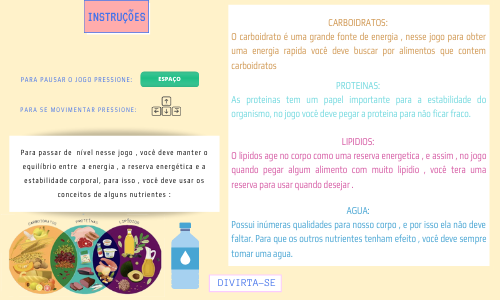
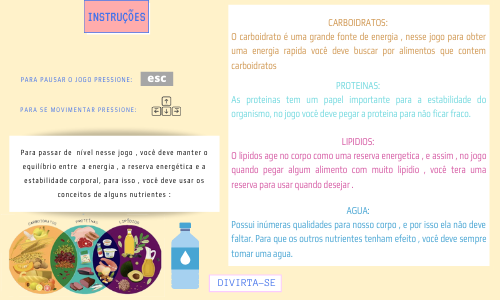
definindo regras

Changed region(s): [[0.27, 0.21, 0.42, 0.3]]

diff --git a/sketch.js b/sketch.js
@@ -8,9 +8,10 @@ var wi
 var pts = 0;
 var hitem = 0;
 var pulo = 0;
-var tela1= true;
+var tela1 = true;
 var tela2 = false;
 var telaInstrucao = false;
+var telaPause = false;
 var w1 = 1200;
 var h1 = 600;
 var c = -100;
@@ -32,42 +33,97 @@ let item
 var imggif;
 var imggif2;
 var img;
-var cenario ;
-var agua ;
-var melancia;
-var pao ;
-var instrucoes ;
-var fechar ;
-var titulo ;
+var cenario;
+var agua;
+// var melancia;
+var instrucoes;
+var fechar;
+var titulo;
 
 var imgreserva;
 
 var imgenergia;
 var gifhomealegre;
 var bateria5;
+var sorvete;
+var brigadeiro;
+var pause;
+var nivel = 0;
+var sortear = 0;
+
+var listaLipidios;
+var listaCarboidratos;
+var listaProteinas;
+var listaTodos;
+
+var energia = 1000;
+var saude = 1000;
+var reserva = 1;
+
+var queijo_p
+var carne_p
+var ovo_p
+var leite_p
+
+var pao;
+var batata_c;
+var mel_c;
+var milho_c
+
+var coco_l
+var manteiga_l
+var castanha_l
+var abacate_l
+
+
 
 function preload() {
- 
+
   gifhomealegre = loadImage('Homealegre.gif');
   bateria5 = loadImage('bateria5.png');
-
+  pause = loadImage('pause.png');
   imgreserva = loadImage('reserva.svg');
-  imgenergia= loadImage('energia.png');
+  imgenergia = loadImage('energia.png');
+
   imggif = loadImage('gif.gif');
   imggif2 = loadImage('food2.gif');
   img = loadImage('img8.jpg');
   cenario = loadImage('rua2.jpg');
-  agua = loadImage('agua.png');
-  melancia = loadImage('melancia.png');
-  pao = loadImage('pao.png');
   instrucoes = loadImage('instrucoes.png');
   fechar = loadImage('fechar.png');
   titulo = loadImage('titulo.gif');
 
+  agua = loadImage('agua.png');
+
+  // melancia = loadImage('melancia.png');
+  brigadeiro = loadImage('brigadeiro.png')
+  sorvete = loadImage('sorvete.png');
+
+  batata_c = loadImage('batata_c.png')
+  mel_c = loadImage('mel_c.png')
+  milho_c = loadImage('milho_c.png')
+  pao = loadImage('pao.png');
+  listaCarboidratos=[batata_c,mel_c,milho_c,pao]
+
+  queijo_p = loadImage('queijo_p.png');
+  carne_p = loadImage('carne_p.png');
+  ovo_p = loadImage('ovo_p.png');
+  leite_p = loadImage('leite_p.png');
+  listaProteinas=[queijo_p,carne_p,ovo_p,leite_p]
+
+  coco_l = loadImage('coco_l.png');
+  manteiga_l = loadImage('manteiga_l.png');
+  castanha_l = loadImage('castanha_l.png');
+  abacate_l = loadImage('abacate_l.png');
+ listaLipidios =[coco_l,manteiga_l,castanha_l,abacate_l]
+
+  listaTodos = [listaCarboidratos,listaLipidios,listaProteinas]
+
 }
 
 function draw() {
-  if (pts >= 400) {
+
+  if (pts >= 110) {
     atingiuPontuacao()
   }
   if (tela1 == true) {
@@ -75,75 +131,97 @@ function draw() {
     if (c >= w1) {
       c = -100;
     }
-
-
     image(img, 0, 0, w1, h1);
     criarBtn1();
     criarBtn2();
     image(imggif2, (w1 / 2) - 150, h1 - 200, 300, 130);
     image(imggif, c, h1 - 140, 130, 130);
-    image(titulo, (w1/2)-400, 100, 800, 100);
-
+    image(titulo, (w1 / 2) - 400, 100, 800, 100);
     if (mouseIsPressed && (mouseX > p1 && mouseX < p1 + recw) && (mouseY > p2 && mouseY < p2 + rech)) {
       tela1 = false
       tela2 = true
     }
-    
-    if (mouseIsPressed &&( (mouseY > p2 + 50 && mouseY < p2 + 50 + rech) && (mouseX > p1 && mouseX < p1 + recw))) {
-    // alert("sdfdf")
-        tela1 = false
+    if (mouseIsPressed && ((mouseY > p2 + 50 && mouseY < p2 + 50 + rech) && (mouseX > p1 && mouseX < p1 + recw))) {
+      // alert("sdfdf")
+      tela1 = false
       tela2 = false
-      telaInstrucao=true
+      telaInstrucao = true
     }
   }
   if (tela2 == true) {
-    
     if (parseInt(hp) - 50 - parseInt(hi) < 5 && parseInt(wi) < 80) {
+      if(listaCarboidratos.includes(item)==true){
+        bateria5 = loadImage('bateria2.png');
+        energia=energia+20;
+      }
+      if(listaProteinas.includes(item)==true){
+        saude=saude+20
+      }
+      if(listaLipidios.includes(item)==true){
+        if(reserva<4){
+          reserva=reserva+1
+        }
+        
+      }
       pts++
     }
 
-    c = c - 4;
+    c = c - (nivel + 4);
     if (c < (w1) * -1) {
       c = 0
       sorteioItens()
     }
+
     movimentoCenario1()
+    fill(100, 100, 100);
+    rect(w1 - (w1 / 4) * 4 + 10, 50, 110, 20);
+    fill(100, 20, 100);
+    rect(w1 - (w1 / 4) * 4 + 10, 50, pts, 20);
 
+    fill(300, 300, 100);
+    rect(w1 - 250, 4, textWidth(" Energia "), 40, 20);
     fill(0, 0, 0);
-    rect(w1-250,4 , 100, 40, 20);
-    fill(300, 300, 300);
-    text("energia", w1-250, 35);
-    image(bateria5, w1-250, 35,150,50);
+    text("Energia", w1 - 250, 35);
+    image(bateria5, w1 - 280, 50, 155, 50);
 
+
+    // text(pts, w1 - 250, 25);
+
+    fill(300, 300, 100);
+    rect(w1 - (w1 / 4) * 2, 4, textWidth(" Reserva Energetica "), 40, 20);
+    fill(0, 0, 0);
+    text("Reserva energética", w1 - (w1 / 4) * 2, 35);
+    var reservax=55
+    while(reserva>0){
+      image(imgenergia, w1 - (w1 / 4) * 2, reservax, 50, 50);
+      reservax=reservax+10
+    }
     
-    text(pts, w1-250, 25);
 
-    fill(0, 0, 0);
-    rect(w1-(w1/4)*2, 4, 100, 40, 20);
-    fill(300, 300, 300);
-    text("reserva",w1-(w1/4)*2, 35);
-    image(imgenergia, w1-(w1/4)*2, 35,50,50);
 
-    
+    fill(300, 300, 100);
+    rect(w1 - (w1 / 4) * 3, 4, textWidth(" Saúde Física "), 40, 20);
     fill(0, 0, 0);
-    rect(w1-(w1/4)*3, 4, 100, 40, 20);
-    fill(300, 300, 300);
-    text("Saúde Física",w1-(w1/4)*3, 35);
+    text("Saúde Física", w1 - (w1 / 4) * 3, 35);
     // image(h, w1-(w1/4)*3, 35,100,90);
-    image(gifhomealegre, w1-(w1/4)*3, 35,100,90);
+    image(gifhomealegre, w1 - (w1 / 4) * 3 + 15, 50, 90, 70);
+    fill(300, 300, 100);
+    rect(w1 - (w1 / 4) * 4 + 10, 4, 100, 40, 20);
     fill(0, 0, 0);
-    rect(w1-(w1/4)*4, 4, 100, 40, 20);
-    fill(300, 300, 300);
-    text("Nivel",w1-(w1/4)*4, 35);
+    text("Nivel : " + nivel, w1 - (w1 / 4) * 4 + 10, 35);
 
 
     hp = h1 - 230 - (pulo * 10) + (130 / 2)
-    itensCenario()
-    image(imggif, 0, h1 - 230 - (pulo * 10), 130, 130); 
-  }
-  if(telaInstrucao==true){
-    verInstrucoes();
 
+    image(imggif, 0, h1 - 230 - (pulo * 10), 130, 130);
+    itensCenario()
+
+  }
+  if (telaInstrucao == true) {
+    verInstrucoes();
+  }
+  if (telaPause == true) {
+    verPause();
   }
 }
 function criarBtn1() {
@@ -173,8 +251,8 @@ function mouseMoved() {
   if (tela1 == true) {
     if ((mouseX > p1 && mouseX < p1 + recw) && (mouseY > p2 && mouseY < p2 + rech)) {
 
-      
-      c2btn1 = 90
+
+
       c2btn1 = 90
       console.log("btn1")
 
@@ -220,7 +298,9 @@ function keyReleased() {
 
   }
   else if (keyCode === ESCAPE) {
-   alert("jhvjghg")
+
+    tela2 = false;
+    telaPause = true;
 
   }
 }
@@ -228,9 +308,13 @@ function sorteioItens() {
 
   hitem = random(h1 - 50, h1 - 200);
 
-  var vetor = [agua, melancia, pao]
-  let r = random(vetor);
+  var list =random(listaTodos);
+  let r = random(list);
   item = r
+
+  hi = hitem
+  wi = w1 + c
+  image(item, wi, hitem, 50, 50);
 
 
 }
@@ -243,37 +327,75 @@ function movimentoCenario1() {
 
 }
 function itensCenario() {
-
-
   if (item != null) {
     hi = hitem
     wi = w1 + c
     image(item, wi, hitem, 50, 50);
+
   }
 
 }
 function atingiuPontuacao() {
 
-  tela1 = true;
-  tela2 = false
+  // tela1 = true;
+  // tela2 = false
   pts = 0
+  nivel = nivel + 1
 }
 
 
 function verInstrucoes() {
-  fill(320, 320, 20,10);
-  var sizex= 800
-  var sizey= 500
-  image(instrucoes,(w1 / 2) - (sizex / 2),80,sizex,sizey);
-  image(fechar,(w1/2)+(sizex/2)-40,80,40,40);
-  var c=(w1/2)+(sizex/2)-40;
-  
-  
-  if (mouseIsPressed &&((mouseY >=80 && mouseY<110) && (mouseX >c && mouseX<c+100 ))) {
+  fill(320, 320, 20, 10);
+  var sizex = 800
+  var sizey = 500
+  image(instrucoes, (w1 / 2) - (sizex / 2), 80, sizex, sizey);
+  image(fechar, (w1 / 2) + (sizex / 2) - 40, 80, 40, 40);
+  var c = (w1 / 2) + (sizex / 2) - 40;
 
-      tela1 = true
-      tela2 = false
-      telaInstrucao=false
-    }
 
+  if (mouseIsPressed && ((mouseY >= 80 && mouseY < 110) && (mouseX > c && mouseX < c + 100))) {
+
+    tela1 = true
+    tela2 = false
+    telaInstrucao = false
+  }
+
+}
+function verPause() {
+  var sizex = 400
+  var sizey = 500
+  var retx = 480;
+  var rety1 = 265;
+  var rety2 = 365;
+  var rety3 = 475;
+  rect(retx, rety1, 250, 80);
+  rect(retx, rety2, 250, 80);
+  rect(retx, rety3, 250, 80);
+
+
+  image(pause, (w1 / 2) - (sizex / 2), 80, sizex, sizey);
+
+
+  if (mouseIsPressed && ((mouseX > retx && mouseX < retx + 250) && (mouseY > rety1 && mouseY < rety1 + 80))) {
+    // alert("restart")
+    telaPause = false
+    tela2 = true
+    nivel = 0
+    pts = 0
+
+  }
+  if (mouseIsPressed && ((mouseX > retx && mouseX < retx + 250) && (mouseY > rety2 && mouseY < rety2 + 80))) {
+    // alert("return")
+    telaPause = false
+    tela2 = true
+  }
+  if (mouseIsPressed && ((mouseX > retx && mouseX < retx + 250) && (mouseY > rety3 && mouseY < rety3 + 80))) {
+    // alert("exit")
+    telaPause = false
+    tela1 = true
+    nivel = 0
+    pts = 0
+
+
+  }
 }
